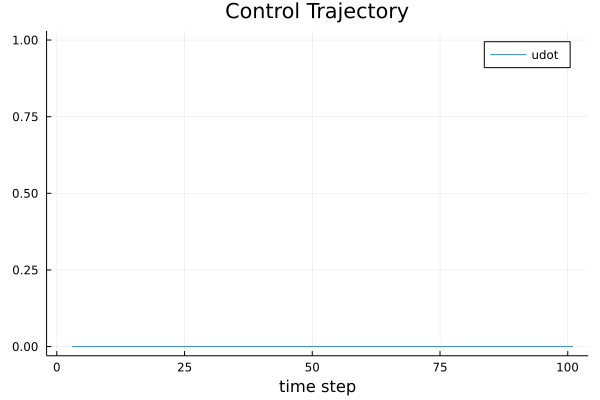
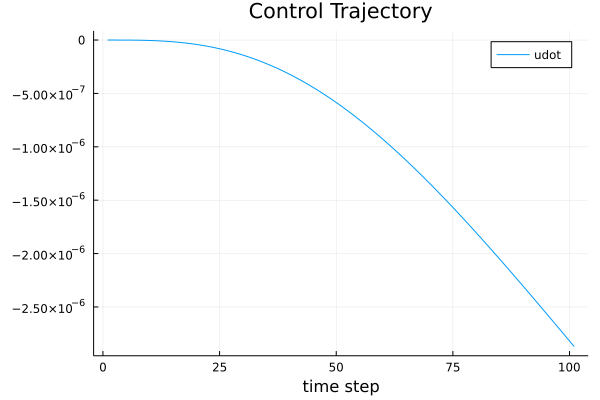
single qubit test: good solve

diff --git a/qutip_scripts/single_fluxonium_qubit.py b/qutip_scripts/single_fluxonium_qubit.py
@@ -1,6 +1,7 @@
 from qutip import sigmax, sigmaz, qsave
 
 fq = 1 / (72 * 1e-9) 
+# fq = 1
 
 H_drift = fq * sigmaz()
 H_drive = sigmax()
